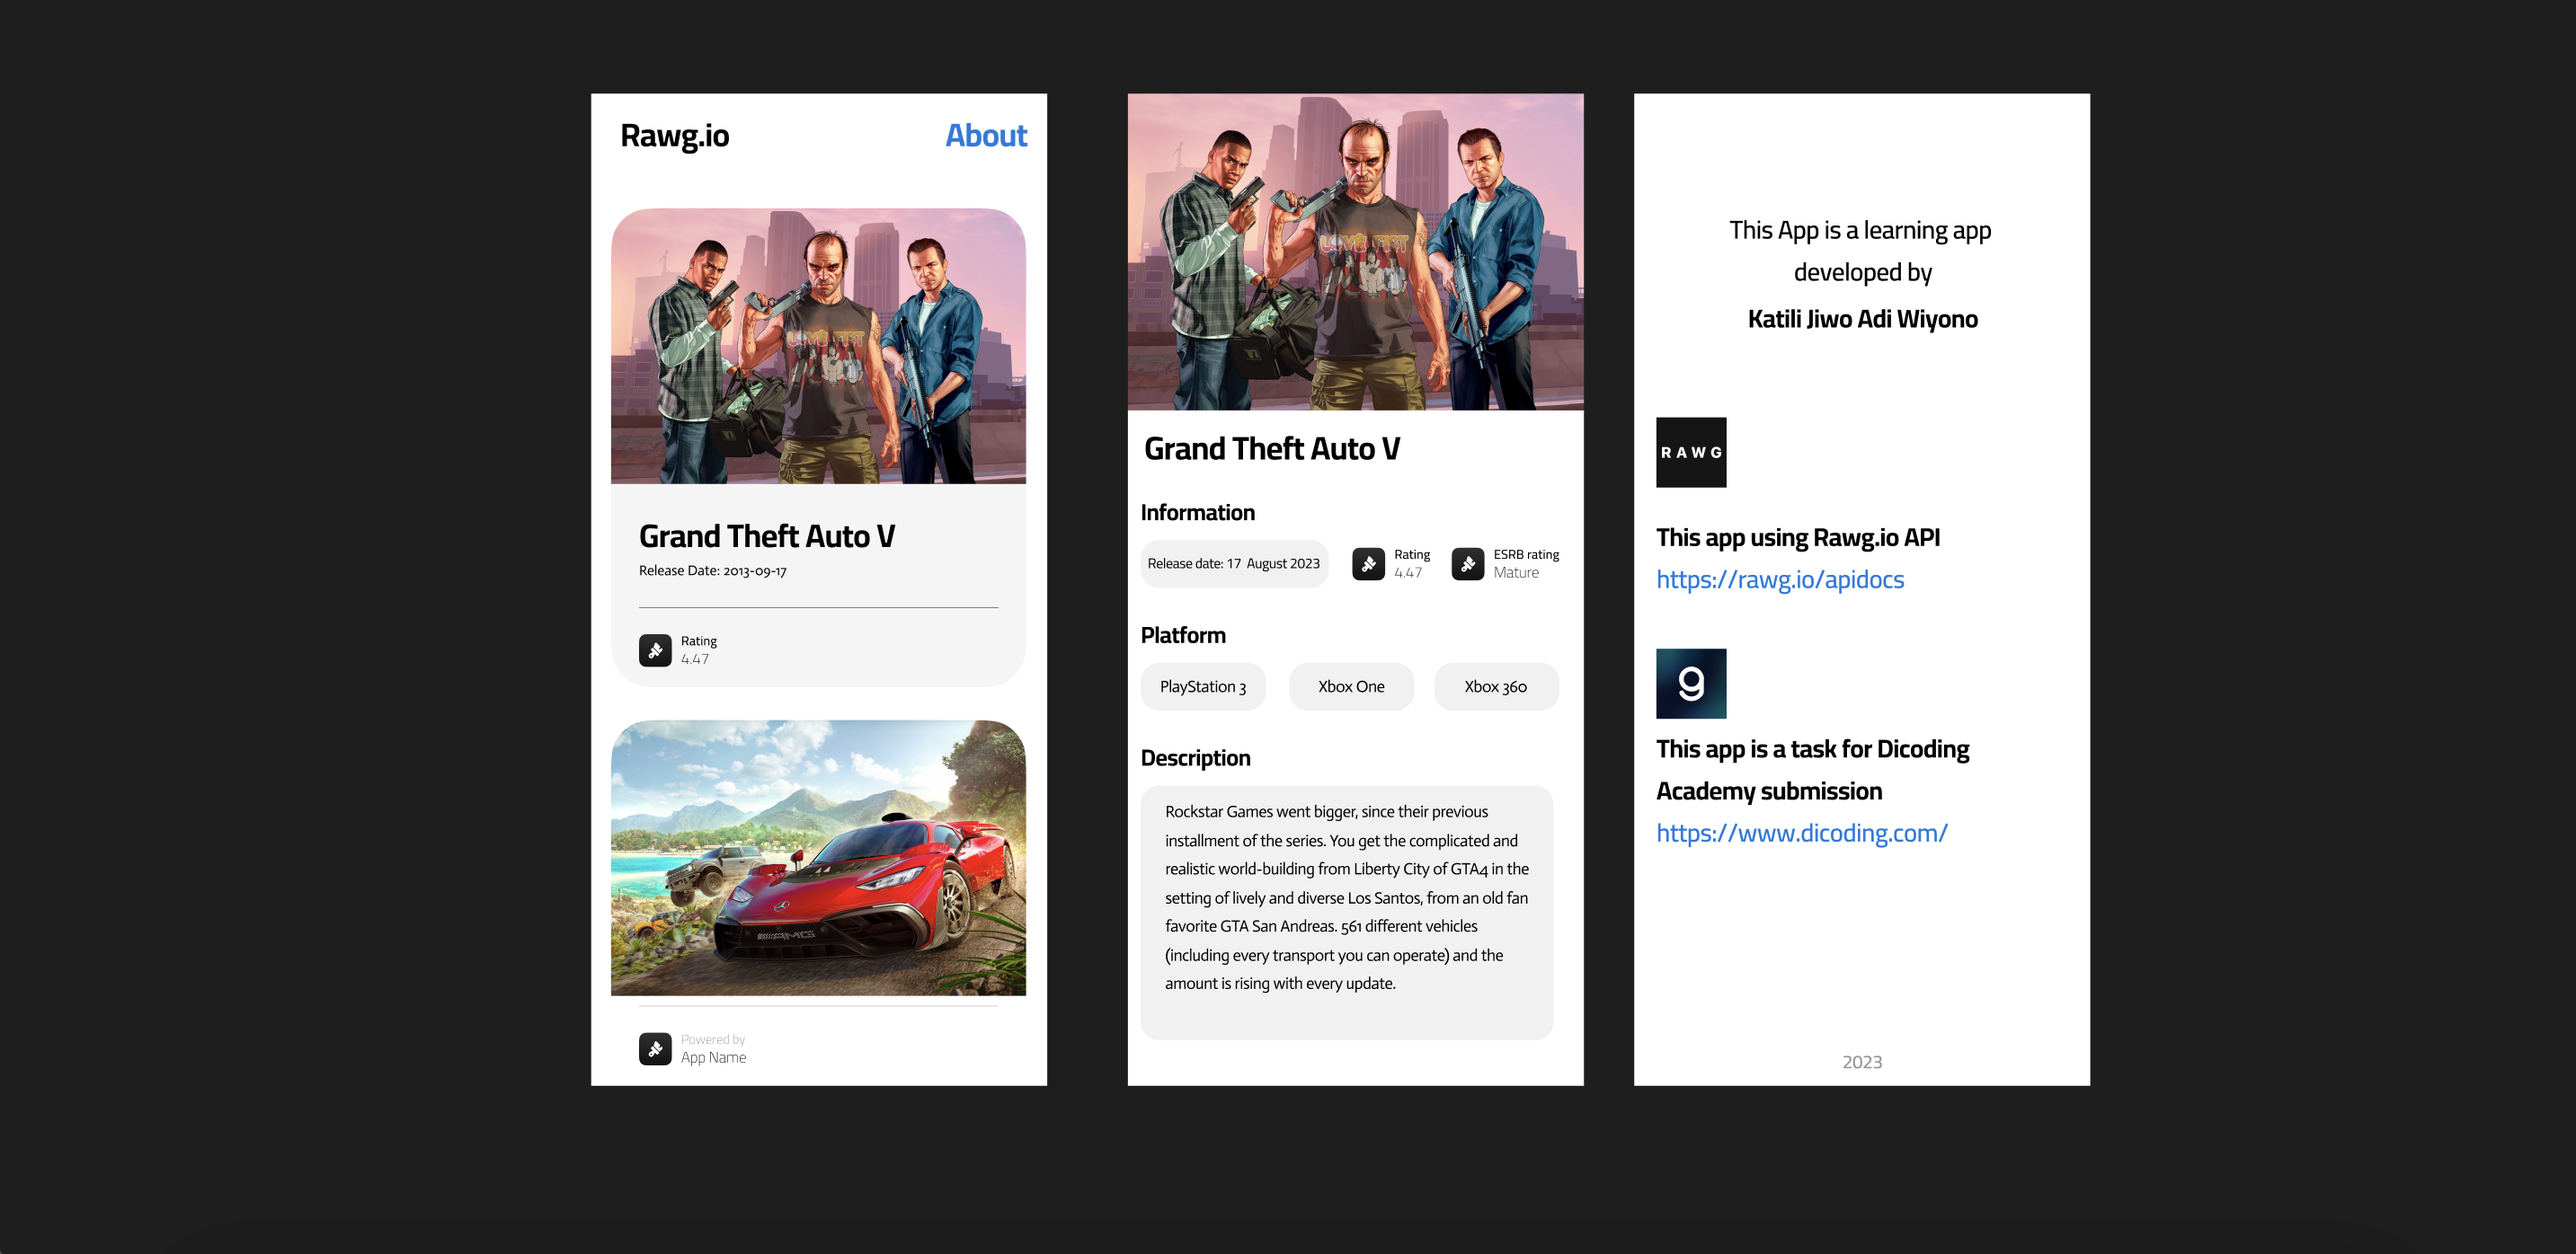
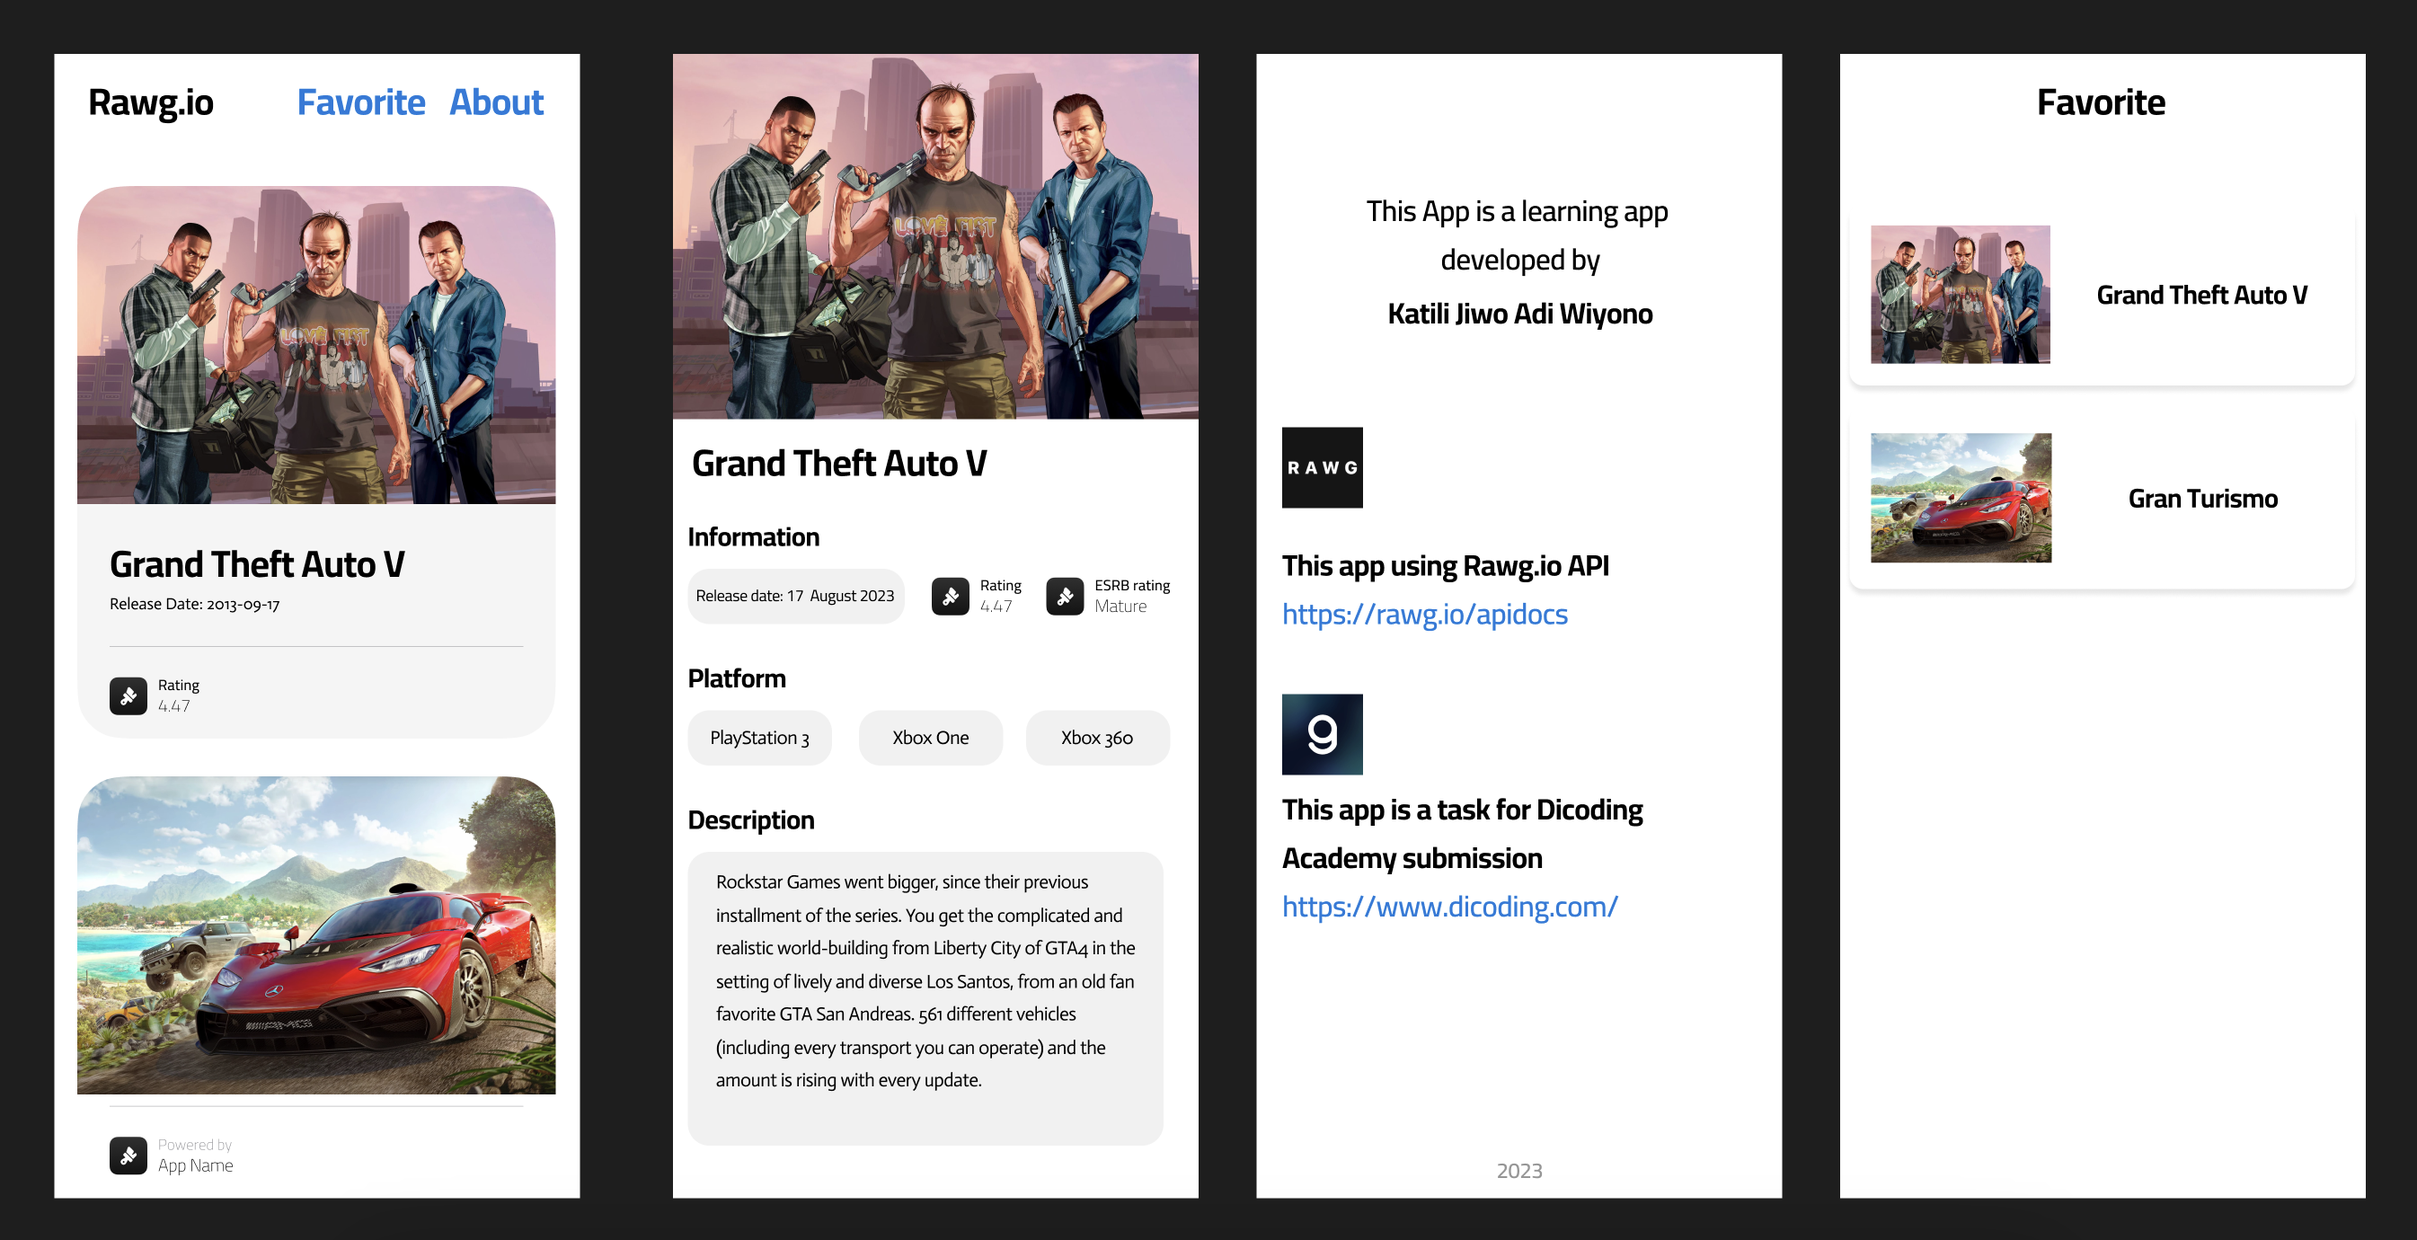
add use case

diff --git a/Rawg Io API/Module/DetailGame/DetailGameViewModel.swift b/Rawg Io API/Module/DetailGame/DetailGameViewModel.swift
@@ -14,13 +14,13 @@ class DetailGameViewModel {
     var didFavGame: ((Status<Void?>.type) -> Void)? = nil
     var didGameIsFav: ((Status<GameModel?>.type) -> Void)? = nil
     
-    private let gameRepository: GameRepositoryProtocol
-    init(gameRepository: GameRepositoryProtocol) {
-        self.gameRepository = gameRepository
+    private let gameDetailUseCase: GameDetailUseCase
+    init(gameDetailUseCase: GameDetailUseCase) {
+        self.gameDetailUseCase = gameDetailUseCase
     }
     
     func getGameDetail(id: Int) {
-        gameRepository.getGameDetail(gameId: id) { result in
+        gameDetailUseCase.getGameDetail(gameId: id) { result in
             self.didGetGame?(Status<GameDetailModel>.type.loading)
             switch result {
             case .success(let result):
@@ -37,7 +37,7 @@ class DetailGameViewModel {
     
     func insertFavGame(gameModel: GameModel) {
         self.didGetGame?(Status<GameDetailModel>.type.loading)
-        gameRepository.insertFavGame(
+        gameDetailUseCase.insertFavGame(
             gameModel: gameModel,
             completion: {
                 self.didFavGame?(Status<Void?>.type.result(nil))
@@ -47,7 +47,7 @@ class DetailGameViewModel {
     
     func updateFaveGame(gameModel: GameModel) {
         self.didGetGame?(Status<GameDetailModel>.type.loading)
-        gameRepository.updateFaveGame(
+        gameDetailUseCase.updateFaveGame(
             gameModel: gameModel,
             completion: {
                 self.didFavGame?(Status<Void?>.type.result(nil))
@@ -57,7 +57,7 @@ class DetailGameViewModel {
     
     func deleteFaveGame(gameId: Int) {
         self.didGetGame?(Status<GameDetailModel>.type.loading)
-        gameRepository.deleteFavGame(
+        gameDetailUseCase.deleteFavGame(
             gameId: gameId,
             completion: {
                 self.didFavGame?(Status<Void?>.type.result(nil))
@@ -66,7 +66,7 @@ class DetailGameViewModel {
     }
     
     func getFavGameById(gameId: Int) {
-        gameRepository.getFavGamesById(id: gameId, completion: { result in
+        gameDetailUseCase.getFavGamesById(id: gameId, completion: { result in
             self.didGameIsFav?(Status<GameModel?>.type.result(result))
         })
     }

diff --git a/Rawg Io API/Core/Domain/UseCase/GameUseCase.swift b/Rawg Io API/Core/Domain/UseCase/GameUseCase.swift
@@ -1,0 +1,39 @@
+//
+//  GameUseCase.swift
+//  Rawg Io API
+//
+//  Created by koinworks on 09/09/23.
+//
+
+import Foundation
+
+
+protocol GameUseCaseProtocol {
+    func getListGame(completion: @escaping (Result<[GameModel], Error>) -> Void) async
+}
+
+final class GameUseCase: NSObject {
+    
+    typealias HomeGameUseCaseInstance = (GameRepositoryProtocol) -> GameUseCase
+    
+    fileprivate let repository: GameRepositoryProtocol
+    
+    private init(repository: GameRepositoryProtocol) {
+        self.repository = repository
+    }
+    
+    static let sharedInstance: HomeGameUseCaseInstance = { repository  in
+        return GameUseCase(repository: repository)
+    }
+}
+
+extension GameUseCase: GameUseCaseProtocol {
+    
+    func getListGame(completion: @escaping (Result<[GameModel], Error>) -> Void) {
+        repository.getListGame { result in
+            completion(result)
+        }
+    }
+    
+}
+

diff --git a/Rawg Io API/DI/Injection.swift b/Rawg Io API/DI/Injection.swift
@@ -11,8 +11,19 @@ final class Injection: NSObject {
     
     func provideRepository() -> GameRepositoryProtocol {
         let remote: RemoteDataSource = RemoteDataSource.sharedInstance
-        let local: LocalDataSource = LocalDataSource(provider: GameDbProvider())
+        let gameProvider: GameDbProvider = GameDbProvider.sharedInstance
+        let local: LocalDataSource = LocalDataSource.sharedInstance(gameProvider)
         return GameRepository.sharedInstance(remote, local)
+    }
+    
+    func provideGameUseCase() -> GameUseCase {
+        let repository = provideRepository()
+        return GameUseCase.sharedInstance(repository)
+    }
+    
+    func provideGameDetailUseCase() -> GameDetailUseCase {
+        let repository = provideRepository()
+        return GameDetailUseCase.sharedInstance(repository)
     }
     
 }

diff --git a/Rawg Io API/Module/Home/View/Home/HomeViewModel.swift b/Rawg Io API/Module/Home/View/Home/HomeViewModel.swift
@@ -11,13 +11,13 @@ class HomeViewModel {
     
     var didGetListGame: ((Status<[GameModel]>.type) -> Void)? = nil
     
-    private let gameRepository: GameRepositoryProtocol
-    init(gameRepository: GameRepositoryProtocol) {
-        self.gameRepository = gameRepository
+    private let gameUseCase: GameUseCase
+    init(gameUseCase: GameUseCase) {
+        self.gameUseCase = gameUseCase
     }
     
     func getCategories() {
-        gameRepository.getListGame { result in
+        gameUseCase.getListGame { result in
             self.didGetListGame?(Status<[GameModel]>.type.loading)
             switch result {
             case .success(let result):

diff --git a/Rawg Io API/Module/About/AboutViewController.swift b/Rawg Io API/Module/About/AboutViewController.swift
@@ -11,19 +11,6 @@ class AboutViewController: UIViewController {
 
     override func viewDidLoad() {
         super.viewDidLoad()
-
-        // Do any additional setup after loading the view.
     }
-
-
-    /*
-    // MARK: - Navigation
-
-    // In a storyboard-based application, you will often want to do a little preparation before navigation
-    override func prepare(for segue: UIStoryboardSegue, sender: Any?) {
-        // Get the new view controller using segue.destination.
-        // Pass the selected object to the new view controller.
-    }
-    */
 
 }

diff --git a/Rawg Io API/Module/DetailGame/DetailGameViewController.swift b/Rawg Io API/Module/DetailGame/DetailGameViewController.swift
@@ -28,8 +28,8 @@ class DetailGameViewController: UIViewController {
     private var isGameFav = false
     
     private lazy var viewModel: DetailGameViewModel = {
-        let repository = Injection.init().provideRepository()
-        let vm = DetailGameViewModel(gameRepository: repository)
+        let useCase = Injection.init().provideGameDetailUseCase()
+        let vm = DetailGameViewModel(gameDetailUseCase: useCase)
         vm.didGetGame = didGetGame
         vm.didFavGame = didFavGame
         vm.didGameIsFav = didGameIsFav

diff --git a/Rawg Io API/Core/Data/Repository/GameRepository.swift b/Rawg Io API/Core/Data/Repository/GameRepository.swift
@@ -40,8 +40,8 @@ extension GameRepository: GameRepositoryProtocol {
         self.remote.getGameList { remoteResponses in
             switch remoteResponses {
             case .success(let response):
-                let resultList = mapGame(input: response)
-                result(.success(resultList))
+                let gameDetail = mapGame(input: response)
+                result(.success(gameDetail))
             case .failure(let error):
                 result(.failure(error))
             }

diff --git a/Rawg Io API/Module/Home/View/Home/HomeViewController.swift b/Rawg Io API/Module/Home/View/Home/HomeViewController.swift
@@ -17,8 +17,8 @@ class HomeViewController: UIViewController {
     private var listGame: [GameModel]? = nil
     
     private lazy var viewModel: HomeViewModel = {
-        let repository = Injection.init().provideRepository()
-        let vm = HomeViewModel(gameRepository: repository)
+        let useCase = Injection.init().provideGameUseCase()
+        let vm = HomeViewModel(gameUseCase: useCase)
         vm.didGetListGame = didGetListGame
         return vm
     }()

diff --git a/Rawg Io API/Core/Data/Local/LocalDataSource.swift b/Rawg Io API/Core/Data/Local/LocalDataSource.swift
@@ -15,9 +15,15 @@ protocol LocalDataSourceProtocol: AnyObject {
 }
 
 class LocalDataSource: NSObject {
+    typealias LocalDataSourceInstance = (GameDbProvider) -> LocalDataSource
+    
     private let provider: GameDbProvider
+    
     init(provider: GameDbProvider) {
         self.provider = provider
+    }
+    static let sharedInstance: LocalDataSourceInstance = { provider in
+        return LocalDataSource(provider: provider)
     }
 }
 

diff --git a/Rawg Io API/Module/Favorite/FavoriteViewController.swift b/Rawg Io API/Module/Favorite/FavoriteViewController.swift
@@ -33,6 +33,7 @@ class FavoriteViewController: UIViewController {
         favoriteTableView.register(
             UINib(nibName: FavoriteTableViewCell.identifier, bundle: nil), forCellReuseIdentifier: FavoriteTableViewCell.identifier)
         navigationController?.setNavigationBarHidden(false, animated: true)
+        self.navigationItem.title = "Favorite"
     }
     
     private func didGetListFavGame(state: Status<[GameModel]?>.type?) {

diff --git a/Rawg Io API/Core/Data/Local/GameDbProvider.swift b/Rawg Io API/Core/Data/Local/GameDbProvider.swift
@@ -9,7 +9,11 @@ import CoreData
 import UIKit
 
 
-class GameDbProvider {
+class GameDbProvider: NSObject {
+    
+    private override init() { }
+    static let sharedInstance: GameDbProvider =  GameDbProvider()
+
     
     private final let CONTAINER = "Game"
     
